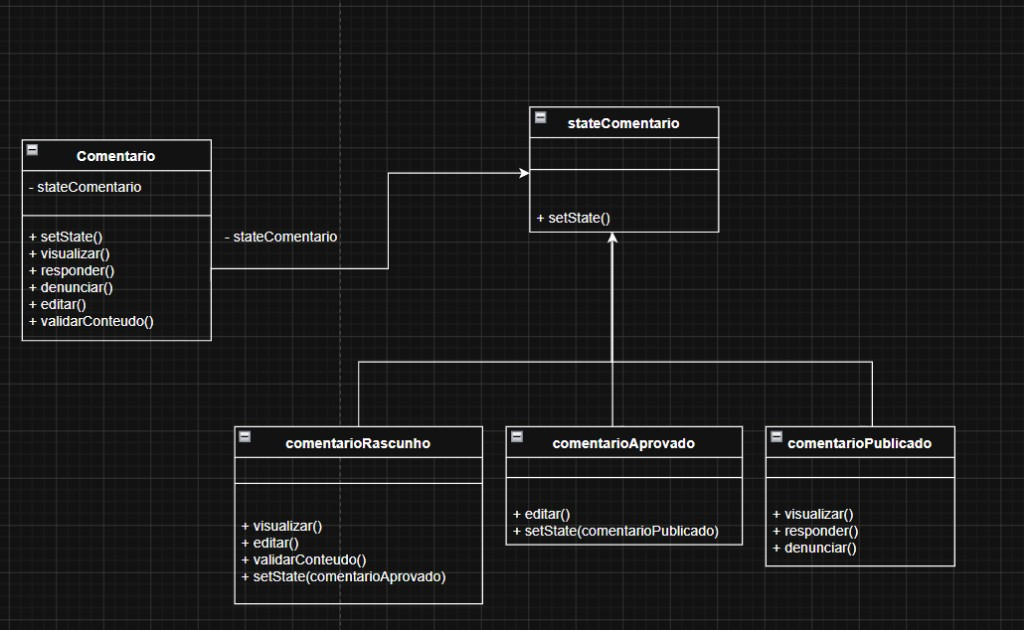
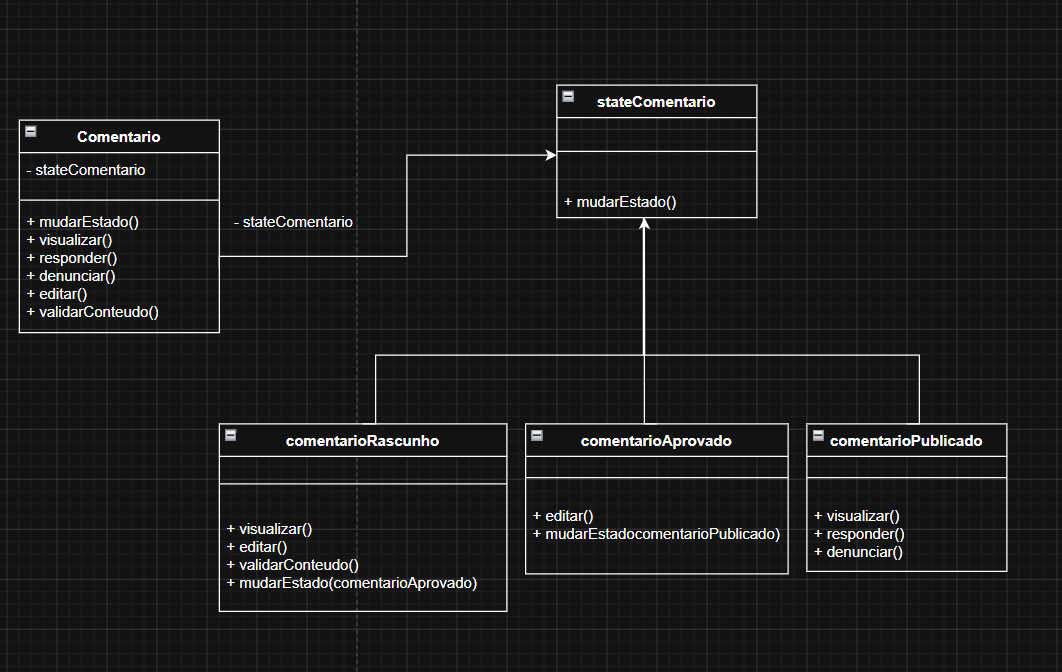
feat: update UML mudarEstado

diff --git a/docs/PadroesDeProjeto/3_GoFsComportamentais/3.3.4.State_gofco.md b/docs/PadroesDeProjeto/3_GoFsComportamentais/3.3.4.State_gofco.md
@@ -20,8 +20,6 @@ Conforme Gamma et al. (1995), o padrão State é indicado quando o comportamento
 
 O artefato foi desenvolvido por [Amanda de Moura](https://github.com/AmandaaMoura) e [Eduardo Ribeiro](https://github.com/EduardoRibeiroXavier), com revisão de [Letícia Paiva](https://github.com/leticiakrpaiva) e [João Victor Mello](https://github.com/Chaotzuu). A dupla optou por **TypeScript**, por alinhar-se ao ecossistema do repositório, oferecer suporte nativo a classes abstratas e facilitar a execução do protótipo com `tsx` — além de refletir a visão de implementação no front-end do fluxo de comentários.
 
-A escolha do domínio partiu do **Diagrama de Classes** do EuAmoPiri: a entidade **Comentário** possui estados distintos ao longo da moderação e publicação, o que torna o State um candidato natural — cada estado concentra apenas as operações permitidas naquele momento.
-
 Os estudos de base combinaram:
 
 - o capítulo **State** do livro *Design Patterns: Elements of Reusable Object-Oriented Software* (GAMMA et al., 1995);
@@ -31,8 +29,8 @@ Os estudos de base combinaram:
 A comunicação ocorreu de forma **assíncrona via Discord**, no canal `#state_gof_comportamentais`. O fluxo de decisão passou por três momentos principais:
 
 1. **Proposta inicial** — estados orientados ao processamento interno do cadastro (`creating`, `allowed`, `notAllowed`, `active`);
-2. **Reformulação** — adoção de estados alinhados às ações do usuário (`visualizar`, `editar`, `publicar`, `responder`, `denunciar`, `validarConteudo`);
-3. **Modelagem e código** — consolidação em diagrama UML (versões 1.0 e 1.1) e protótipo TypeScript.
+2. **Reformulação** — adoção de estados alinhados às ações do usuário (`rascunho`, `aprovado`, `publicado`);
+3. **Modelagem e código** — consolidação em diagrama UML (versões 1.0 e 1.1) e código TypeScript.
 
 ![state_discussao_proposta_inicial](./imagens/state_discussao_proposta_inicial.png)
 <center>Figura 1 — Proposta inicial de estados no canal Discord</center>
